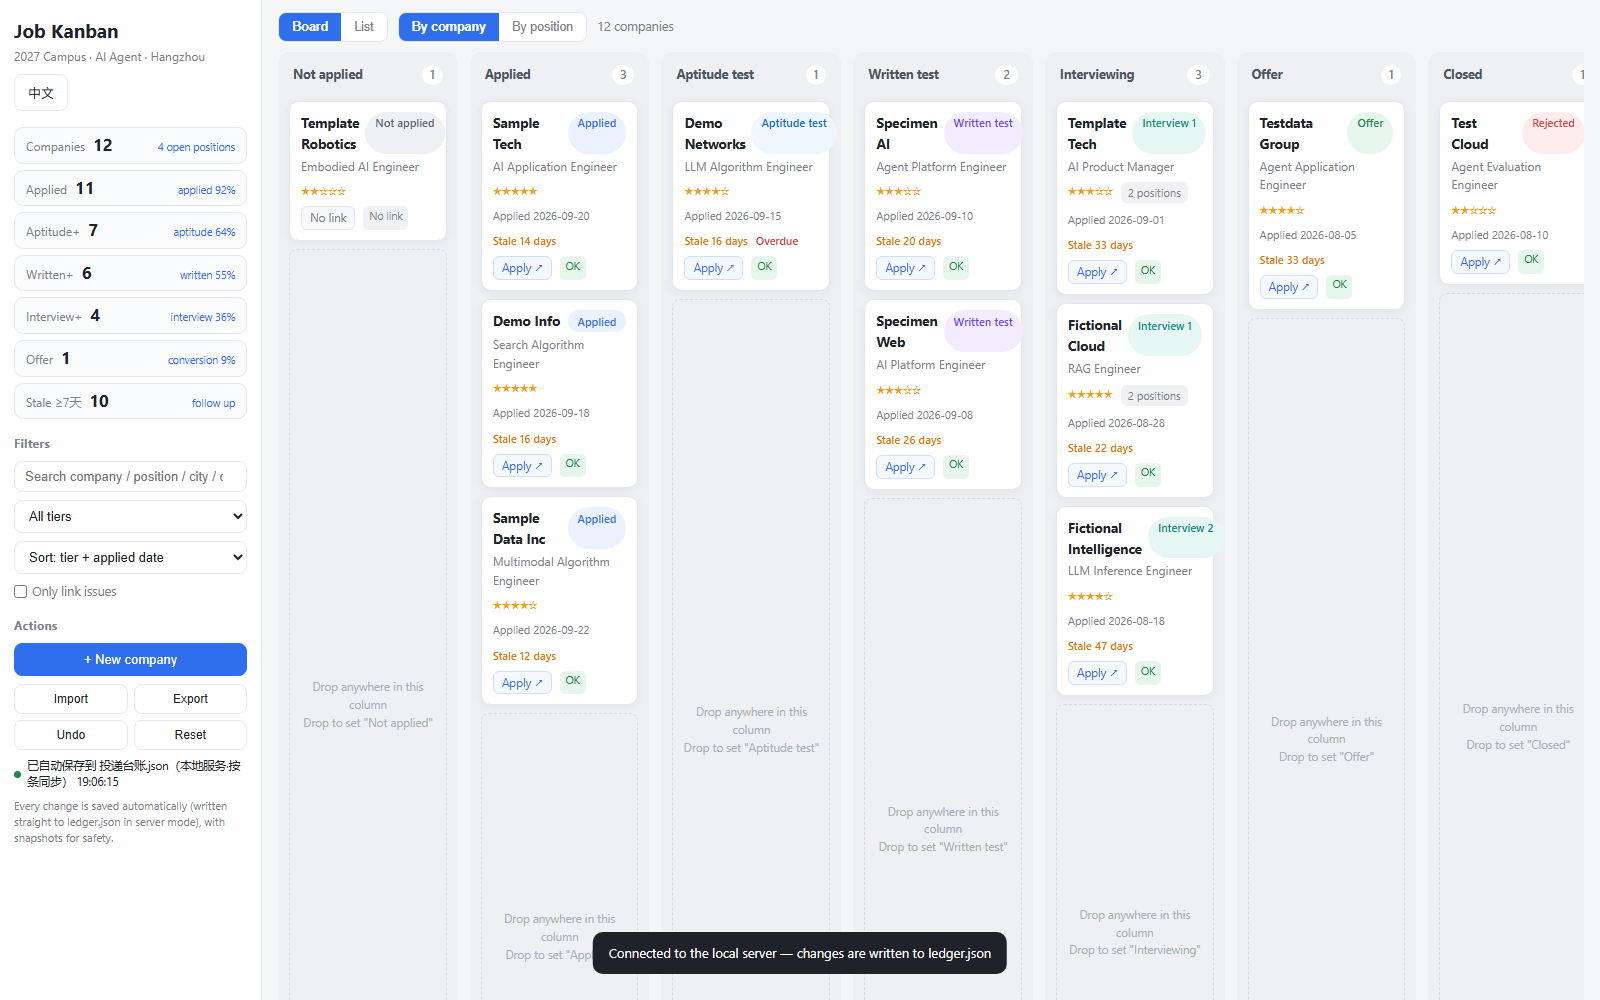
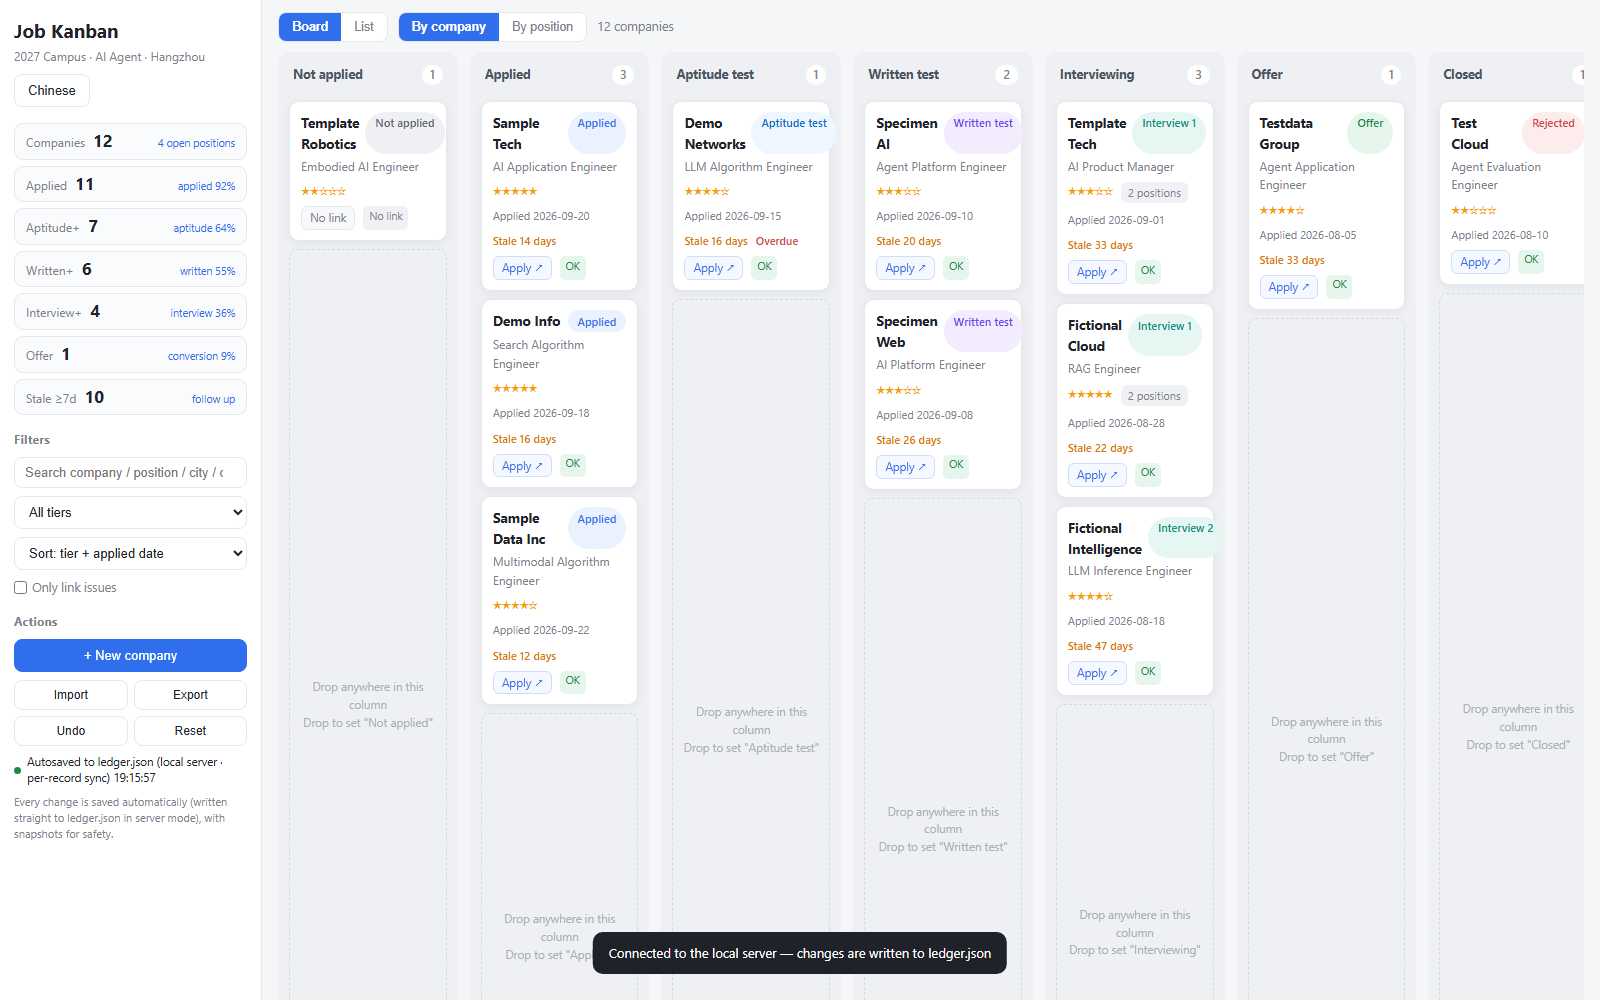
fix: 英文界面彻底清除残留中文，并新增 CJK 守卫测试
修复三处残留（左下角文件状态行等）：
- localize() 只翻译「后面跟着标签」的文本节点，容器末尾的文本被漏掉
  → 补 >([^<>]+)\$ 分支，文件状态行现在正确显示 Autosaved to ledger.json ...
- 规则顺序错误：通用 /^停滞 (.+)\$/ 排在具体规则前，导致「停滞 ≥7天」被半翻译
  → 具体规则前置
- 静态 datalist（简历版本/渠道）与链接徽章 title 含中文
  → datalist 改英文值、补「可访问（检测于 …）」规则、语言按钮显示 Chinese/English

新增守卫：tests/cjk_check.py
- 用 headless Chrome 渲染看板，剥离 script/style 后扫描可见文本与
  placeholder/title/aria-label，出现任何 CJK 即失败（无浏览器时优雅跳过）
- 已接入 make check / npm run check / GitHub Actions CI
- 当前结果：Rendered English UI — CJK occurrences: 0

配套：Makefile 加 cjk 目标、package.json 加 test:cjk、README/CONTRIBUTING/CHANGELOG 同步

diff --git a/dashboard.html b/dashboard.html
@@ -180,7 +180,7 @@
     <div class="brand">
       <h1>投递看板</h1>
       <div class="sub">2027 届校招 · AI Agent · 杭州</div>
-      <button class="btn langbtn" id="langBtn" title="切换界面语言 / Switch UI language">中文</button>
+      <button class="btn langbtn" id="langBtn" title="Switch UI language">Chinese</button>
     </div>
 
     <div class="funnel" id="funnel"></div>
@@ -254,11 +254,11 @@
 
 <datalist id="dlCompany"></datalist>
 <datalist id="dlChannel">
-  <option>官网</option><option>牛客</option><option>BOSS直聘</option>
-  <option>内推</option><option>邮箱</option><option>实习僧</option><option>猎聘</option>
+  <option>Official site</option><option>Nowcoder</option><option>BOSS Zhipin</option>
+  <option>内推</option><option>Email</option><option>Shixiseng</option><option>Liepin</option>
 </datalist>
 <datalist id="dlResume">
-  <option>v1 通用版</option><option>v2 Agent强化版</option>
+  <option>v1 general</option><option>v2 Agent-focused</option>
 </datalist>
 
 <div class="toast" id="toast"><span id="toastMsg"></span><button id="toastUndo" style="display:none">撤销</button></div>
@@ -311,7 +311,7 @@ const DEFAULT_DATA = {
       "投递状态": "已投递",
       "投递日期": "2026-09-20",
       "简历版本": "v2 Agent-focused",
-      "渠道": "官网",
+      "渠道": "Official site",
       "内推": "",
       "优先级": 5,
       "下一步": "Waiting for the written test invite",
@@ -377,7 +377,7 @@ const DEFAULT_DATA = {
       "投递状态": "笔试",
       "投递日期": "2026-09-10",
       "简历版本": "v1 general",
-      "渠道": "牛客",
+      "渠道": "Nowcoder",
       "内推": "",
       "优先级": 3,
       "下一步": "Review fundamentals and practice",
@@ -413,7 +413,7 @@ const DEFAULT_DATA = {
       "投递状态": "一面",
       "投递日期": "2026-08-28",
       "简历版本": "v2 Agent-focused",
-      "渠道": "官网",
+      "渠道": "Official site",
       "内推": "",
       "优先级": 5,
       "下一步": "Prepare for deep-dive project questions",
@@ -501,7 +501,7 @@ const DEFAULT_DATA = {
       "投递状态": "offer",
       "投递日期": "2026-08-05",
       "简历版本": "v1 general",
-      "渠道": "BOSS直聘",
+      "渠道": "BOSS Zhipin",
       "内推": "",
       "优先级": 4,
       "下一步": "Confirm offer details",
@@ -550,7 +550,7 @@ const DEFAULT_DATA = {
       "投递状态": "未投递",
       "投递日期": "",
       "简历版本": "",
-      "渠道": "官网",
+      "渠道": "Official site",
       "内推": "",
       "优先级": 2,
       "下一步": "Check whether the role is open",
@@ -573,7 +573,7 @@ const DEFAULT_DATA = {
       "投递状态": "已投递",
       "投递日期": "2026-09-22",
       "简历版本": "v2 Agent-focused",
-      "渠道": "官网",
+      "渠道": "Official site",
       "内推": "",
       "优先级": 4,
       "下一步": "Waiting for résumé screening",
@@ -633,7 +633,7 @@ const DEFAULT_DATA = {
       "投递状态": "笔试",
       "投递日期": "2026-09-08",
       "简历版本": "v1 general",
-      "渠道": "牛客",
+      "渠道": "Nowcoder",
       "内推": "",
       "优先级": 3,
       "下一步": "Practice problems + review fundamentals",
@@ -663,7 +663,7 @@ const DEFAULT_DATA = {
       "投递状态": "二面",
       "投递日期": "2026-08-18",
       "简历版本": "v2 Agent-focused",
-      "渠道": "BOSS直聘",
+      "渠道": "BOSS Zhipin",
       "内推": "",
       "优先级": 4,
       "下一步": "Prepare for system design",
@@ -693,7 +693,7 @@ const DEFAULT_DATA = {
       "投递状态": "已拒",
       "投递日期": "2026-08-10",
       "简历版本": "v1 general",
-      "渠道": "官网",
+      "渠道": "Official site",
       "内推": "",
       "优先级": 2,
       "下一步": "",
@@ -723,7 +723,7 @@ const DEFAULT_DATA = {
       "投递状态": "一面",
       "投递日期": "2026-09-01",
       "简历版本": "v1 general",
-      "渠道": "官网",
+      "渠道": "Official site",
       "内推": "",
       "优先级": 3,
       "下一步": "Prepare for product-sense questions",
@@ -1645,6 +1645,8 @@ const EN = {
   '如：完成笔试':'e.g. finish the written test','如：AI应用算法工程师':'e.g. AI Application Engineer',
   '官网 / 牛客 / BOSS / 内推':'Official site / Nowcoder / BOSS / referral',
   'v1 通用版 / v2 Agent强化版':'v1 general / v2 Agent-focused',
+  'v1 通用版':'v1 general','v2 Agent强化版':'v2 Agent-focused',
+  'BOSS直聘':'BOSS Zhipin','猎聘':'Liepin','实习僧':'Shixiseng',
   '技术类':'Engineering','产品类':'Product','算法类':'Algorithm','设计类':'Design','运营类':'Operations',
   '官网':'Official site','牛客':'Nowcoder','BOSS直聘':'BOSS Zhipin','猎聘':'Liepin','实习僧':'Shixiseng','邮箱':'Email',
   '手动修改':'Manual edit','看板拖拽':'Board drag','弹窗推进':'Advanced in dialog','列表推进':'Advanced in list',
@@ -1713,7 +1715,6 @@ const EN_RULES = [
   [/^(.+) · (.+) · 更新 (.+)$/, function(m, a, b, c){ return T(a) + ' · ' + b + ' · Updated ' + c; }],
   [/^(.+) · 更新 (.+)$/,        function(m, a, b){ return T(a) + ' · Updated ' + b; }],
   [/^(\d+) 天$/,              function(m, n){ return n + ' days'; }],
-  [/^停滞 (.+)$/,              function(m, v){ return 'Stale ' + T(v); }],
   [/^投递率 (.+)$/,            function(m, v){ return 'applied ' + v; }],
   [/^测评率 (.+)$/,            function(m, v){ return 'aptitude ' + v; }],
   [/^笔试率 (.+)$/,            function(m, v){ return 'written ' + v; }],
@@ -1725,12 +1726,14 @@ const EN_RULES = [
   [/^共 (\d+) 家$/,            function(m, n){ return n + ' companies'; }],
   [/^停滞 (\d+) 天$/,          function(m, n){ return 'Stale ' + n + ' days'; }],
   [/^停滞 ≥(\d+)天$/,          function(m, n){ return 'Stale ≥' + n + 'd'; }],
+  [/^停滞 (.+)$/,              function(m, v){ return 'Stale ' + T(v); }],
   [/^(\d+) 个岗位$/,           function(m, n){ return n + ' positions'; }],
   [/^· (\d+) 个岗位$/,         function(m, n){ return '· ' + n + ' positions'; }],
   [/^拖到这里 = 设为「(.+)」$/,  function(m, s){ return 'Drop to set "' + T(s) + '"'; }],
   [/^投 (.+)$/,                function(m, d){ return 'Applied ' + d; }],
   [/^更新 (.+)$/,              function(m, d){ return 'Updated ' + d; }],
   [/^（检测于 (.+)）$/,         function(m, d){ return '(checked ' + d + ')'; }],
+  [/^(.+)（检测于 (.+)）$/,     function(m, s, d){ return T(s) + ' (checked ' + d + ')'; }],
   [/^历史 (\d+) → (\d+) 条$/,   function(m, a, b){ return 'History ' + a + ' → ' + b; }],
   [/^已撤销上一步（(\d+) 条）$/, function(m, n){ return 'Undone (' + n + ' records)'; }],
   [/^已导入 (\d+) 条（可用「撤销」回退）$/, function(m, n){ return 'Imported ' + n + ' records (undoable)'; }],
@@ -1784,6 +1787,7 @@ function localize(html){
     return '<textarea' + attrs + '>\u0001' + (guards.length - 1) + '\u0001</textarea>';
   });
   out = out.replace(/>([^<>]+)</g, function(m, txt){ return '>' + T(txt) + '<'; });
+  out = out.replace(/>([^<>]+)$/, function(m, txt){ return '>' + T(txt); });      // 末尾文本节点
   out = out.replace(/(placeholder|title|aria-label)="([^"]*)"/g, function(m, a, v){ return a + '="' + T(v) + '"'; });
   out = out.replace(/\u0001(\d+)\u0001/g, function(m, i){ return guards[+i]; });
   return out;
@@ -2065,7 +2069,7 @@ try{ document.title = T(document.title); }catch(e){}
 (function initLangBtn(){
   const lb = document.getElementById('langBtn');
   if(!lb) return;
-  lb.textContent = (lang === 'en') ? '中文' : 'English';
+  lb.textContent = (lang === 'en') ? 'Chinese' : 'English';
   lb.addEventListener('click', ()=> setLang(lang === 'en' ? 'zh' : 'en'));
 })();
 render();

diff --git a/tests/cjk_check.py b/tests/cjk_check.py
@@ -1,0 +1,146 @@
+#!/usr/bin/env python3
+# -*- coding: utf-8 -*-
+"""Guard: the English UI must contain no CJK characters.
+
+Renders the dashboard with headless Chrome, strips <script>/<style>, then scans
+all visible text plus placeholder/title/aria-label attributes for CJK. Any hit
+fails the check.
+
+Usage:
+    python tests/cjk_check.py
+    python tests/cjk_check.py --dump out.html    # keep the rendered DOM
+
+Needs Chrome or Edge; exits 0 with a notice when no browser is available
+(so CI without a browser does not fail spuriously).
+"""
+import argparse
+import glob
+import io
+import os
+import re
+import shutil
+import socket
+import subprocess
+import sys
+import tempfile
+import time
+import urllib.request
+
+try:
+    sys.stdout.reconfigure(encoding='utf-8', errors='replace')
+    sys.stderr.reconfigure(encoding='utf-8', errors='replace')
+except Exception:
+    pass
+
+HERE = os.path.dirname(os.path.dirname(os.path.abspath(__file__)))
+SAMPLE = os.path.join(HERE, 'data', 'sample-ledger.json')
+CJK = re.compile(r'[\u4e00-\u9fff]')
+
+CANDIDATES = [
+    r'C:\Program Files\Google\Chrome\Application\chrome.exe',
+    r'C:\Program Files (x86)\Google\Chrome\Application\chrome.exe',
+    os.path.expandvars(r'%LOCALAPPDATA%\Google\Chrome\Application\chrome.exe'),
+    r'C:\Program Files (x86)\Microsoft\Edge\Application\msedge.exe',
+    r'C:\Program Files\Microsoft\Edge\Application\msedge.exe',
+    '/Applications/Google Chrome.app/Contents/MacOS/Google Chrome',
+    '/Applications/Microsoft Edge.app/Contents/MacOS/Microsoft Edge',
+    '/usr/bin/google-chrome', '/usr/bin/chromium', '/usr/bin/chromium-browser',
+    '/usr/bin/microsoft-edge',
+]
+
+
+def find_browser():
+    for p in CANDIDATES:
+        if os.path.exists(p):
+            return p
+    for name in ('google-chrome', 'chromium', 'chrome', 'msedge'):
+        p = shutil.which(name)
+        if p:
+            return p
+    return None
+
+
+def free_port():
+    s = socket.socket()
+    s.bind(('127.0.0.1', 0))
+    port = s.getsockname()[1]
+    s.close()
+    return port
+
+
+def main():
+    ap = argparse.ArgumentParser()
+    ap.add_argument('--dump', default='', help='write the rendered DOM to this path')
+    args = ap.parse_args()
+
+    browser = find_browser()
+    if not browser:
+        print('SKIP: no Chrome/Edge found — cannot verify the rendered DOM')
+        return 0
+    if not os.path.exists(SAMPLE):
+        sys.exit('sample data not found: %s' % SAMPLE)
+
+    tmp = tempfile.mkdtemp(prefix='jobkanban-cjk-')
+    data = os.path.join(tmp, 'demo.json')
+    io.open(data, 'w', encoding='utf-8').write(io.open(SAMPLE, encoding='utf-8').read())
+    port = free_port()
+    proc = subprocess.Popen(
+        [sys.executable, os.path.join(HERE, 'server.py'),
+         '--port', str(port), '--no-browser', '--data', data],
+        cwd=HERE, stdout=subprocess.DEVNULL, stderr=subprocess.DEVNULL)
+    try:
+        url = 'http://127.0.0.1:%d/' % port
+        deadline = time.time() + 20
+        while time.time() < deadline:
+            try:
+                urllib.request.urlopen(url + 'api/state', timeout=2).read()
+                break
+            except Exception:
+                time.sleep(0.4)
+        else:
+            sys.exit('server did not start')
+
+        dom = subprocess.run(
+            [browser, '--headless=new', '--disable-gpu', '--no-first-run',
+             '--virtual-time-budget=4000', '--dump-dom', url],
+            capture_output=True, timeout=120).stdout.decode('utf-8', 'replace')
+        if args.dump:
+            io.open(args.dump, 'w', encoding='utf-8').write(dom)
+
+        body = re.sub(r'<script[\s\S]*?</script>', '', dom)
+        body = re.sub(r'<style[\s\S]*?</style>', '', body)
+
+        hits = []
+        for m in re.finditer(r'>([^<>]+)<', body):
+            s = m.group(1).strip()
+            if s and CJK.search(s):
+                hits.append('text: ' + s)
+        for m in re.finditer(r'(placeholder|title|aria-label)="([^"]*)"', body):
+            if CJK.search(m.group(2)):
+                hits.append('%s: %s' % (m.group(1), m.group(2)))
+
+        seen, uniq = set(), []
+        for h in hits:
+            if h not in seen:
+                seen.add(h)
+                uniq.append(h)
+
+        print('Rendered English UI — CJK occurrences: %d' % len(uniq))
+        for h in uniq:
+            print('  [CJK] ' + h)
+        if uniq:
+            print('\nFAIL: the English UI still contains Chinese text')
+            return 1
+        print('OK: no Chinese text in the rendered English UI')
+        return 0
+    finally:
+        proc.terminate()
+        try:
+            proc.wait(timeout=5)
+        except Exception:
+            proc.kill()
+        shutil.rmtree(tmp, ignore_errors=True)
+
+
+if __name__ == '__main__':
+    sys.exit(main())

diff --git a/CONTRIBUTING.md b/CONTRIBUTING.md
@@ -23,10 +23,11 @@ No dependencies to install. Node is only needed for the tests (Node 14+).
 ## Running the tests
 
 ```bash
-make check              # full: lint + frontend tests + smoke test + safety check
+make check              # full: lint + frontend tests + smoke + safety + CJK guard
 npm test                # frontend regression tests only (112)
 npm run test:smoke      # server smoke test only (14)
 npm run test:safety     # open-source safety & privacy checks only (5)
+npm run test:cjk        # rendered English UI must contain no Chinese (needs Chrome)
 ```
 
 The tests execute the page script against minimal DOM stubs — **no browser needed**, and they finish in a few hundred milliseconds.
@@ -34,6 +35,7 @@ The tests execute the page script against minimal DOM stubs — **no browser nee
 - Assertions must be **data-size independent** (the 12-record sample data must pass) — don't hard-code "50 companies"
 - Add tests for new features; for bug fixes, write a failing assertion first
 - For UI changes, regenerate the screenshots with `python tools/screenshot.py` (it uses sample data and never touches a real ledger)
+- Any new UI string must be added to the i18n table (`const EN`) — `tests/cjk_check.py` will fail otherwise
 
 ## Commit conventions
 

diff --git a/README.md b/README.md
@@ -254,10 +254,11 @@ python tools/screenshot.py       # regenerate README screenshots from the sample
 ## Development
 
 ```bash
-make check              # lint + frontend tests + smoke test + safety check
+make check              # lint + frontend tests + smoke + safety + CJK guard
 npm test                # frontend regression tests only (112)
 npm run test:smoke      # server smoke test only (14)
 npm run test:safety     # open-source safety & privacy checks only (5)
+npm run test:cjk        # rendered English UI must contain no Chinese (needs Chrome)
 ```
 
 - Edit `dashboard.html` → just refresh the page (the server reads it per request)
@@ -311,6 +312,8 @@ Yes — click the **中文** button in the top-left. The choice is remembered (`
 </details>
 
 ## Design notes
+
+**The English UI is guarded by a test**: `tests/cjk_check.py` renders the dashboard with headless Chrome and fails if any CJK character appears in visible text or in `placeholder`/`title`/`aria-label`. Data keys and stage values are exempt by design — they are never rendered raw in the English UI.
 
 **Single-file frontend**: double-click to run, no build step, easy to fork. The trade-off is that the HTML embeds a fallback dataset — run `tools/build-embed.py` after changing it.
 

diff --git a/CHANGELOG.md b/CHANGELOG.md
@@ -16,11 +16,15 @@ All notable changes to this project are documented here. The format follows [Kee
 - i18n layer: `T()` / `TT()` for strings, `localize()` for rendered HTML (translates text nodes and `placeholder`/`title` only — never `value`, so data can't be corrupted), plus regex rules for dynamic text.
 - Language toggle button and URL hash deep links (`#list`, `#pos`, `#issue`).
 - 12 new i18n regression tests (112 total).
+- `tests/cjk_check.py`: renders the dashboard with headless Chrome and fails if the English UI contains any Chinese — wired into `make check` and CI.
 
 ### Fixed
 
 - Status `<option>` elements now carry explicit `value` attributes, so translating their labels cannot change the stored value.
 - `renderFileStatus()` is wrapped so its output is translated on every call path.
+- `localize()` now also translates the trailing text node of a container (previously only text followed by a tag).
+- Rule order: specific rules (`停滞 ≥7天`) now run before generic ones, so dynamic text is not partially translated.
+- Static datalists (résumé version, channel) and the link-badge `title` are now English; the language toggle reads "Chinese"/"English" so the English UI has zero Chinese characters.
 
 ## [1.0.1] - 2026-10-04
 
